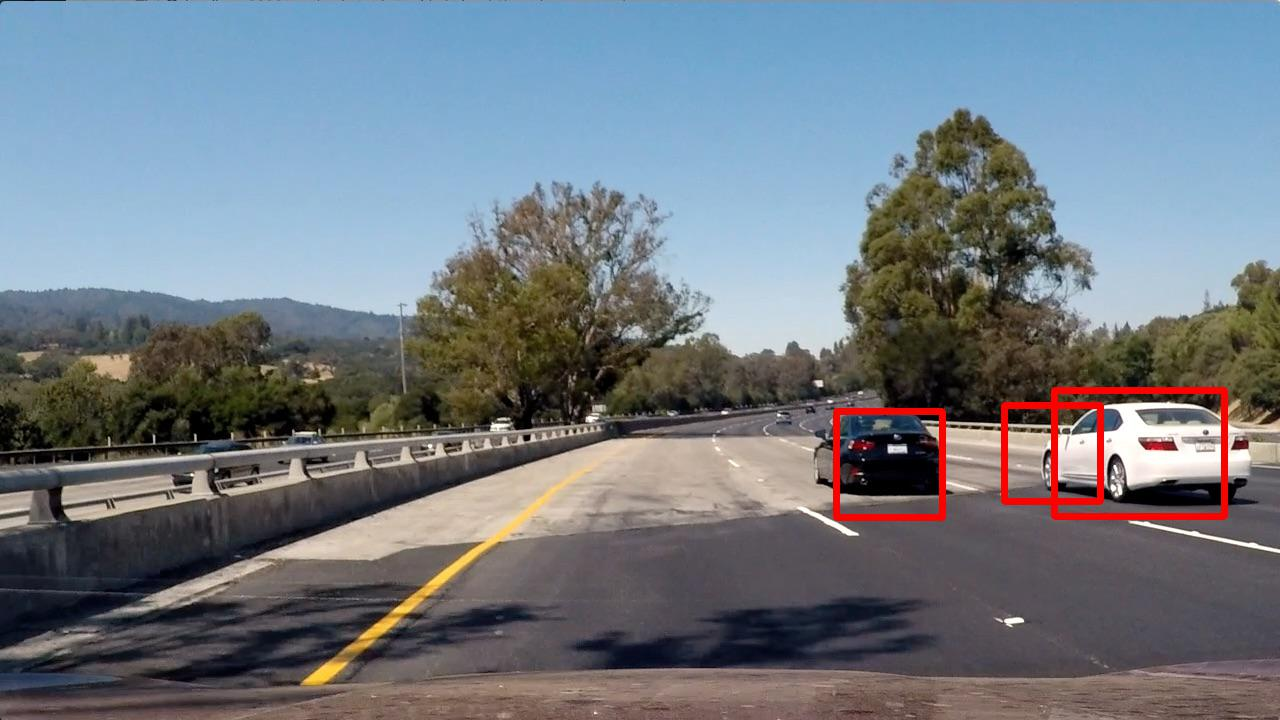
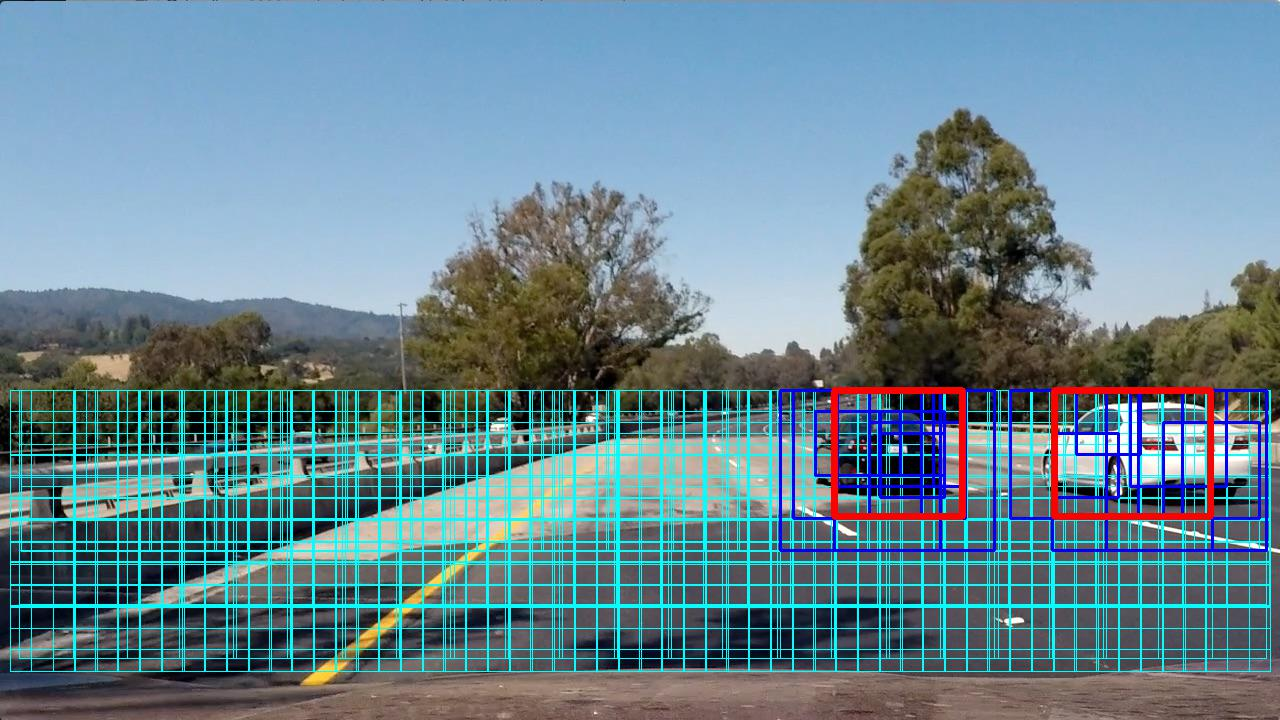
update

Changed region(s): [[0.0, 0.5194, 1.0, 0.9472]]

diff --git a/CarND-Vehicle-Detection/trainSvm.py b/CarND-Vehicle-Detection/trainSvm.py
@@ -5,18 +5,18 @@ import cv2
 import glob
 import time
 from sklearn.svm import SVC
-from sklearn.svm import LinearSVC
 from sklearn.linear_model import SGDClassifier
 from sklearn.preprocessing import StandardScaler
+from sklearn.model_selection import GridSearchCV
 from skimage.feature import hog
 import scipy.misc
 import pickle
 import featureDetection as fd
 
 # NOTE: the next import is only valid for scikit-learn version <= 0.17
-from sklearn.cross_validation import train_test_split
+#from sklearn.cross_validation import train_test_split
 # for scikit-learn >= 0.18 use:
-#from sklearn.model_selection import train_test_split
+from sklearn.model_selection import train_test_split
 
 import matplotlib.pyplot as plt
 import matplotlib.image as mpimg
@@ -108,15 +108,6 @@ def readDatabase(reducedSamples):
 #answer a list of param for optimization
 def getParamlist3():
   params = (
-    ("YUV","ALL",True,True,True),
-    ("YUV","0,2",True,True,True),
-    ("YUV","0,2",False,True,True),
-    ("YUV","0,2",True,False,True),
-    ("YUV","0,2",False,False,True),
-    ("YUV","0,2",True,True,False),
-    ("YUV","0,2",False,True,False),
-    ("YUV","0,2",True,False,False),
-    ("YUV","0,2",False,False,False),
     ("YCrCb","ALL",True,True,True),
     ("YCrCb","0,1",True,True,True),
     ("YCrCb","0,1",False,True,True),
@@ -162,7 +153,6 @@ def getParamlist():
     ("HSV","ALL",True,True,False),
     ("HSV","ALL",False,True,False),
     ("HSV","ALL",True,False,False),
-    #error
     ("LUV","ALL",True,True,True),
     ("LUV","ALL",False,True,True),
     ("LUV","ALL",True,False,True),
@@ -179,7 +169,7 @@ def getParamlist():
     ("HLS","ALL",True,False,False),
     ("YUV","ALL",True,True,True),
     ("YUV","ALL",False,True,True),
-#error    ("YUV","ALL",True,False,True),
+    ("YUV","ALL",True,False,True),
     ("YUV","ALL",False,False,True),
     ("YUV","ALL",True,True,False),
     ("YUV","ALL",False,True,False),
@@ -195,7 +185,7 @@ def getParamlist():
 
 #train a list of parameters
 def trainParamlist(cars,notcars):
-  params = getParamlist3()
+  params = getParamlist()
 
   results = {}
   #train the list
@@ -216,7 +206,7 @@ def trainParamlist(cars,notcars):
     (color_space,hog_channel,spatial_feat,hist_feat,hog_feat) = key
 
     if key in best:
-      print("|",color_space,"|",hog_channel,"|",spatial_feat,"|",hist_feat,"|",hog_feat,"| ** ",accuracy," ** |")
+      print("|",color_space,"|",hog_channel,"|",spatial_feat,"|",hist_feat,"|",hog_feat,"| **",accuracy,"** |")
     else:
       print("|",color_space,"|",hog_channel,"|",spatial_feat,"|",hist_feat,"|",hog_feat,"|",accuracy,"|")
     
@@ -226,7 +216,7 @@ def train(param,cars,notcars):
     
   orient = 9  # HOG orientations
   pix_per_cell = 8 # HOG pixels per cell
-  cell_per_block = 2 # HOG cells per block
+  cell_per_block = 3 # HOG cells per block
   spatial_size = (16, 16) # Spatial binning dimensions
   hist_bins = 16    # Number of histogram bins
 
@@ -285,7 +275,7 @@ if __name__ == '__main__':
     print("train all params")
     trainParamlist(cars,notcars)
 
-  if True:  
+  if False:  
 #read all
     print("read full size database")
     (cars,notcars) = readDatabase(False)
@@ -302,4 +292,40 @@ if __name__ == '__main__':
     with open(SVC_PATH, 'wb') as f:
       pickle.dump(data, file=f)    
     
+  if True:
+    scores = ['precision', 'recall']
 
+# Set the parameters by cross-validation
+    tuned_parameters = [{'loss':["hinge","modified_huber","squared_hinge"],'alpha': [0.00001,0.0001,0.001,0.01],"penalty":["l1","l2","elasticnet"]}]
+
+    scores = ['precision', 'recall']
+
+    for score in scores:
+      print("# Tuning hyper-parameters for %s" % score)
+      print()
+
+      clf = GridSearchCV(SGDClassifier(shuffle=True, fit_intercept=False, n_jobs=-1, learning_rate="optimal", penalty="l2", class_weight="balanced",n_iter=5), tuned_parameters, cv=5,
+                       scoring='%s_macro' % score)
+      clf.fit(X_train, y_train)
+
+      print("Best parameters set found on development set:")
+      print()
+      print(clf.best_params_)
+      print()
+      print("Grid scores on development set:")
+      print()
+      means = clf.cv_results_['mean_test_score']
+      stds = clf.cv_results_['std_test_score']
+      for mean, std, params in zip(means, stds, clf.cv_results_['params']):
+        print("%0.3f (+/-%0.03f) for %r"
+              % (mean, std * 2, params))
+      print()
+
+      print("Detailed classification report:")
+      print()
+      print("The model is trained on the full development set.")
+      print("The scores are computed on the full evaluation set.")
+      print()
+      y_true, y_pred = y_test, clf.predict(X_test)
+      print(classification_report(y_true, y_pred))
+      print()

diff --git a/CarND-Vehicle-Detection/README.md b/CarND-Vehicle-Detection/README.md
@@ -1,23 +1,18 @@
-##Writeup Template
-###You can use this file as a template for your writeup if you want to submit it as a markdown file, but feel free to use some other method and submit a pdf if you prefer.
-
----
-
-**Vehicle Detection Project**
+##Vehicle Detection Project##
 
 The goals / steps of this project are the following:
 
 * Perform a Histogram of Oriented Gradients (HOG) feature extraction on a labeled training set of images and train a classifier Linear SVM classifier
-* Optionally, you can also apply a color transform and append binned color features, as well as histograms of color, to your HOG feature vector. 
-* Note: for those first two steps don't forget to normalize your features and randomize a selection for training and testing.
-* Implement a sliding-window technique and use your trained classifier to search for vehicles in images.
-* Run your pipeline on a video stream (start with the test_video.mp4 and later implement on full project_video.mp4) and create a heat map of recurring detections frame by frame to reject outliers and follow detected vehicles.
+* Optionally, apply a color transform and append binned color features, as well as histograms of color, to the HOG feature vector. 
+* Note: for those first two steps don't forget to normalize features and randomize a selection for training and testing.
+* Implement a sliding-window technique and use a trained classifier to search for vehicles in images.
+* Run a pipeline on a video stream (start with the test_video.mp4 and later implement on full project_video.mp4) and create a heat map of recurring detections frame by frame to reject outliers and follow detected vehicles.
 * Estimate a bounding box for vehicles detected.
 
 [//]: # (Image References)
 [image1]: ./output_images/samples_cars_not_cars.png.png
-[image2]: ./output_images/hog_example.jpg
-[image3]: ./output_images/96searchwindow.jpg
+[image2]: ./output_images/hog_example.png
+[image3]: ./output_images/96searchwindow.png
 [image4]: ./output_images/sliding_window_testImages.jpg
 [image4]: ./output_images/sliding_window_video.jpg
 [image4]: ./output_images/sliding_window_heatmap.jpg
@@ -27,24 +22,22 @@ The goals / steps of this project are the following:
 [video1]: ./project_video.mp4
 
 ---
-###Writeup / README
-
 ###Histogram of Oriented Gradients (HOG)
 
 ####1. Explain how (and identify where in your code) you extracted HOG features from the training images.
 
-The code for this step is in module `trainSvm.py` function readDatabase().  
-If True as parameter is handed over, only a randomized subset of samples is loaded and returned
+The code for this step is in module `trainSvm.py` function `readDatabase()` at line 80 through 106. 
+If True as a parameter is handed over, only a randomized subset of 2000 samples is loaded and returned.
 
 As database for the training I used the a combination of the GTI vehicle image database, the KITTI vision benchmark suite, and examples extracted from the project video itself offered on the project repository.
 
-The database contains 8792 vehicles and 8968 noon vehicles
+The database contains 8792 vehicles and 8968 non-vehicles
 
-I started by reading in all the `vehicle` and `non-vehicle` images.  Here is an example of one of each of the `vehicle` and `non-vehicle` classes:
+I started by reading in all the `vehicle` and `non-vehicle` images.  Here is an example of some images of the `vehicle` and `non-vehicle` classes:
 
 ![alt text][image1]
 
-I then explored different color spaces and different `skimage.hog()` parameters (`orientations`, `pixels_per_cell`, and `cells_per_block`).  I grabbed random images from each of the two classes and displayed them to get a feel for what the `skimage.hog()` output looks like.
+I then explored different color spaces and different `skimage.hog()` parameters (`orientations`, `pixels_per_cell`, and `cells_per_block`).  I grabbed random images from each of the two classes and displayed them to get a feeling for what the `skimage.hog()` output looks like.
 
 Here is an example using the `RGB` color space and HOG parameters of `orientations=9`, `pixels_per_cell=(8, 8)` and `cells_per_block=(3, 3)`:
 
@@ -53,7 +46,7 @@ Here is an example using the `RGB` color space and HOG parameters of `orientatio
 
 ####2. Explain how you settled on your final choice of HOG parameters.
 
-In module `trainSvm.py` I created a function `trainParamlist()` that loops over a list of parameter compinations. It uses the above described randomized subset of the database.
+In module `trainSvm.py` I created a function `trainParamlist()` (line 196 through 220) that loops over a list of parameter combinations. It uses the above described randomized subset of the database.
 
 First I examined for the combination of colorspaces (RGB, HSV, HLS, YUV, LUV, YCrCb), the combination of color space channels, the feature spaces (spatial,histogram,hog) 
 I gained maximum classification accuracy when using RGB or HSL,  spatial and  hog featurs, but no histogram features.
@@ -80,7 +73,7 @@ The results for the different combinations are shown in the table below:
 | LUV | ALL | False | True | True | 0 |
 | LUV | ALL | True | False | True | 0 |
 | LUV | ALL | False | False | True | 0 |
-| LUV | ALL | True | True | False | **  0.9938  ** |
+| LUV | ALL | True | True | False | **0.9938** |
 | LUV | ALL | False | True | False | 0.9788 |
 | LUV | ALL | True | False | False | 0.98 |
 | HLS | ALL | True | True | True | 0.9875 |
@@ -90,7 +83,7 @@ The results for the different combinations are shown in the table below:
 | HLS | ALL | True | True | False | 0.9838 |
 | HLS | ALL | False | True | False | 0.9812 |
 | HLS | ALL | True | False | False | 0.9075 |
-| YUV | ALL | True | True | True | **  0.995  ** |
+| YUV | ALL | True | True | True | **0.995** |
 | YUV | ALL | False | True | True | 0.9888 |
 | YUV | 0 | True | False | True | 0.9812 |
 | YUV | 1 | True | False | True | 0.985 |
@@ -99,9 +92,9 @@ The results for the different combinations are shown in the table below:
 | YUV | ALL | True | True | False | 0.9638 |
 | YUV | ALL | False | True | False | 0.4812 |
 | YUV | ALL | True | False | False | 0.9512 |
-| YCrCb | ALL | True | True | True | **  0.9938  ** |
+| YCrCb | ALL | True | True | True | **0.9938** |
 | YCrCb | ALL | False | True | True | 0.99 |
-| YCrCb | ALL | True | False | True | **  0.995  ** |
+| YCrCb | ALL | True | False | True | **0.995** |
 | YCrCb | ALL | False | False | True | 0.9875 |
 | YCrCb | ALL | True | True | False | 0.965 |
 | YCrCb | ALL | False | True | False | 0.4812 |
@@ -114,19 +107,19 @@ Only YCrCb showed a better result, when reducing the color channels.
 
 |Color space|Channels| Spatial | Histogram | HOG | Accuracy |
 |:---------:|:------:|:-------:|:---------:|:---:|:--------:| 
-| YUV | ALL | False | False | True | **  0.9862  ** |
+| YUV | ALL | False | False | True | **0.9862** |
 | YUV | 0 | False | False | True | 0.9638 |
 | YUV | 1 | False | False | True | 0.9238 |
 | YUV | 2 | False | False | True | 0.885 |
 | YUV | 0,1 | False | False | True | 0.9775 |
-| YUV | 0,2 | False | False | True | **  0.9862  ** |
+| YUV | 0,2 | False | False | True | **0.9862** |
 | YUV | 1,2 | False | False | True | 0.94 |
 | YCrCb | All | False | False | True | 0 |
 | YCrCb | 0 | False | False | True | 0.965 |
 | YCrCb | 1 | False | False | True | 0.9288 |
 | YCrCb | 2 | False | False | True | 0.9112 |
-| YCrCb | 0,1 | False | False | True | **  0.99  ** |
-| YCrCb | 0,2 | False | False | True | **  0.9875  ** |
+| YCrCb | 0,1 | False | False | True | **0.99** |
+| YCrCb | 0,2 | False | False | True | **0.9875** |
 | YCrCb | 1,2 | False | False | True | 0.9475 |
 
 LUV was not able to train because of NaN values in the scaler that caused exceptions. I did not look into that as I got high accuracies on other parmeters
@@ -137,19 +130,19 @@ In the last round I trained these other feature combinations.
 
 |Color space|Channels| Spatial | Histogram | HOG | Accuracy |
 |:---------:|:------:|:-------:|:---------:|:---:|:--------:| 
-| YUV | ALL | True | True | True | **  0.9925  ** |
+| YUV | ALL | True | True | True | **0.9925** |
 | YUV | 0,2 | True | True | True | 0.9912 |
 | YUV | 0,2 | False | True | True | 0.9838 |
-| YUV | 0,2 | True | False | True | **  0.9912  ** |
+| YUV | 0,2 | True | False | True | **0.9912** |
 | YUV | 0,2 | False | False | True | 0.9875 |
 | YUV | 0,2 | True | True | False | 0.95 |
 | YUV | 0,2 | False | True | False | 0.4812 |
 | YUV | 0,2 | True | False | False | 0.9625 |
 | YUV | 0,2 | False | False | False | 0 |
-| YCrCb | ALL | True | True | True | **  0.9962  ** |
+| YCrCb | ALL | True | True | True | **0.9962** |
 | YCrCb | 0,1 | True | True | True | 0.9875 |
 | YCrCb | 0,1 | False | True | True | 0.99 |
-| YCrCb | 0,1 | True | False | True | **  0.9938  ** |
+| YCrCb | 0,1 | True | False | True | **0.9938** |
 | YCrCb | 0,1 | False | False | True | 0.9862 |
 | YCrCb | 0,1 | True | True | False | 0.9625 |
 | YCrCb | 0,1 | False | True | False | 0.4812 |
@@ -161,22 +154,21 @@ The accuracy for the choosen parameters is 0.9837 for all images.
 
 ####3. Describe how (and identify where in your code) you trained a classifier using your selected HOG features (and color features if you used them).
 
-I trained a linear SVM using the class SGDClassifier. In the main function at `trainSvm.py` line 132 through 179. The already loaded car and notcar datasets and the train parameters are handed over to the function.
+I trained a linear SVM using the class SGDClassifier. In the main function at `trainSvm.py` line 266 through 293. The already loaded car and notcar datasets and the train parameters are handed over to the function `train()` at line 215 through 263.
 
-First the features are extracted calling the `extract_features()` function in module `featureDetection.py`
-the two feature sets are stacked in a two line matrix calling vstack. a label column is added to the feature matrix(label 1 for cars and label 0 for notcars) in lines 157 through 165.
+First the features are extracted calling the `extractFeatures()` function in module `featureDetection.py`
+the two feature sets are stacked in a two line matrix calling vstack. a label column is added to the feature matrix(label 1 for cars and label 0 for notcars) in lines 240 through 247.
 
-In line 162 to 164 the feature matrix is normalized to with 0 mean and unit variance using the class sclearn.prepocessing.StandardScaler.
-The fit method calculates the mean and standard deviation, which is used for scaling. Calling transform, the data is scaled.
+In line 242 to 245 the feature matrix is normalized to 0 mean and unit variance using the class sclearn.prepocessing.StandardScaler. The fit method calculates the mean and standard deviation, which is used for scaling. Calling transform, the data is scaled.
 
-The feature matrix is devided in a randomized 80% train and 20% test dataset calling `train_test_split()`.
+The feature matrix is devided in a randomized 80% train and 20% test dataset calling `train_test_split()` at line 250.
 
-After the preprocessing the Classifier is created in line 173 and trained in line 174.
+After the preprocessing the Classifier is created in line 256 and trained in line 257.
 
-The function returns the scaler object, the trained classifier and the achieved accuracy.
-As the scaler and the trained classifier are needed for future predictions a dictionary is created and stored to a pickle file named `svc.p`.
+The function `train()` returns the scaler object, the trained classifier and the achieved accuracy.
+As the scaler and the trained classifier are needed for future predictions, a dictionary is created and stored to a pickle file named `svc.p` at line 289 to 293.
 
-I choosed the SGDClassifier as it is fast and has more options to optimize. For this reason I created a function gridSearch, which allows to find the best setup for the classifier.
+I choosed the SGDClassifier as it is fast and has more options to optimize. For this reason I created a function `gridSearch`, which allows to find the best setup for the classifier.
 I defined the parameter space for the tuning by `[{'loss':["hinge","modified_huber","squared_hinge"],'alpha': [0.00001,0.0001,0.001,0.01],"penalty":["l1","l2","elasticnet"]}]`
 
 The found optimal combination is loss function `hinge`,penalty=`elasticnet` and alpha =`0.0001`.
